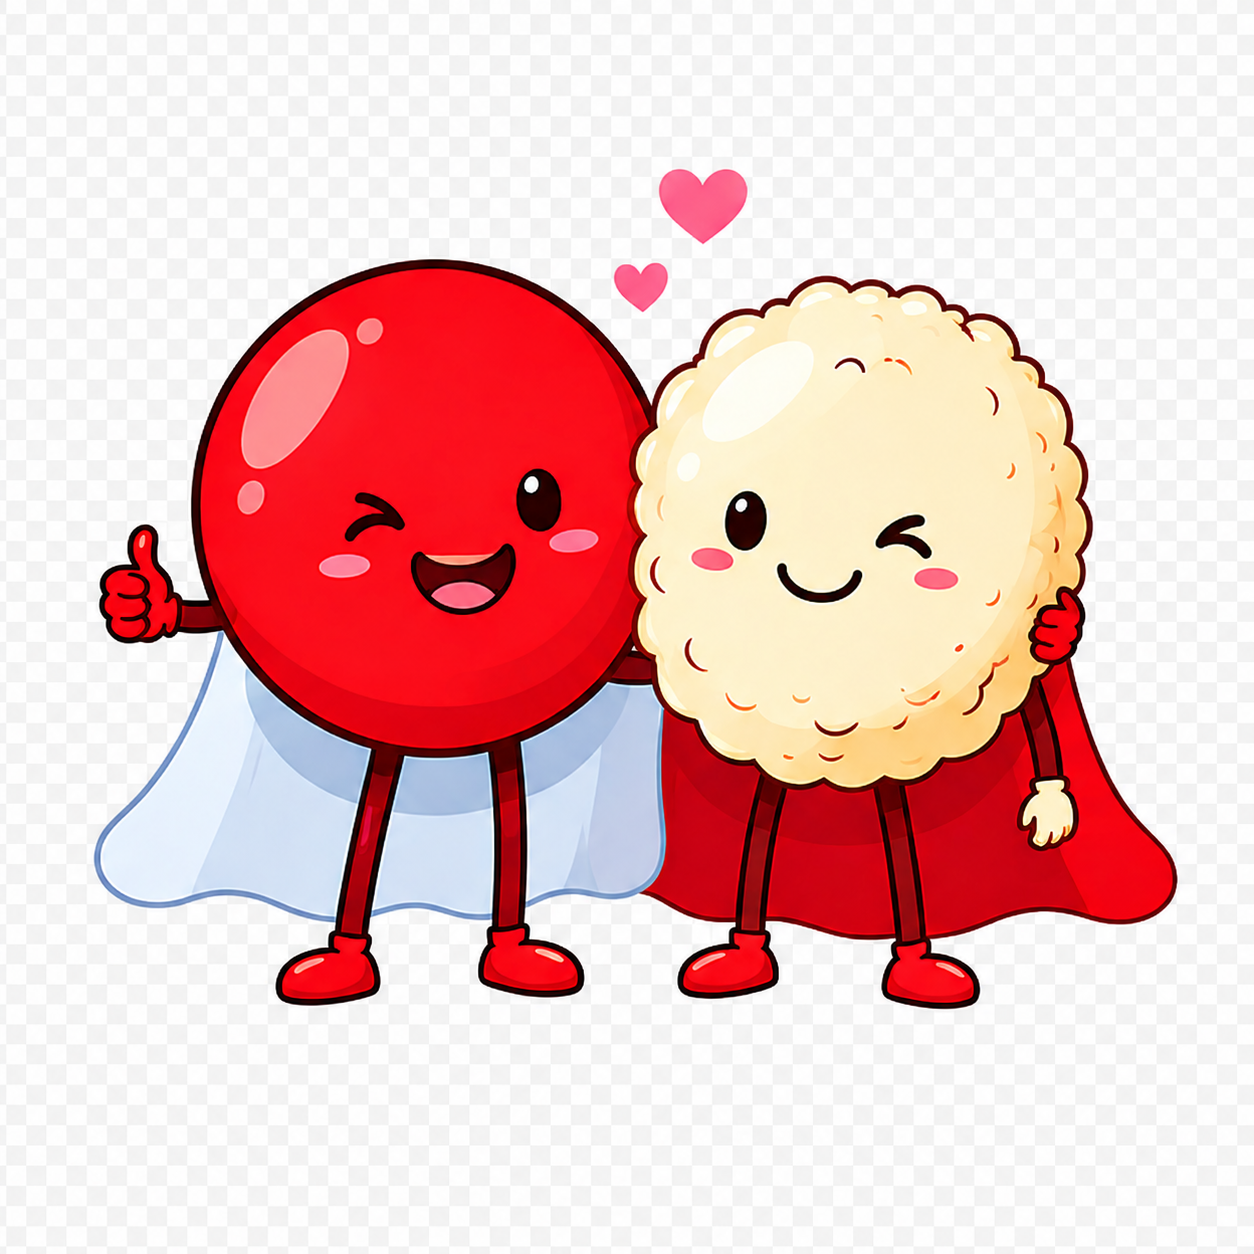
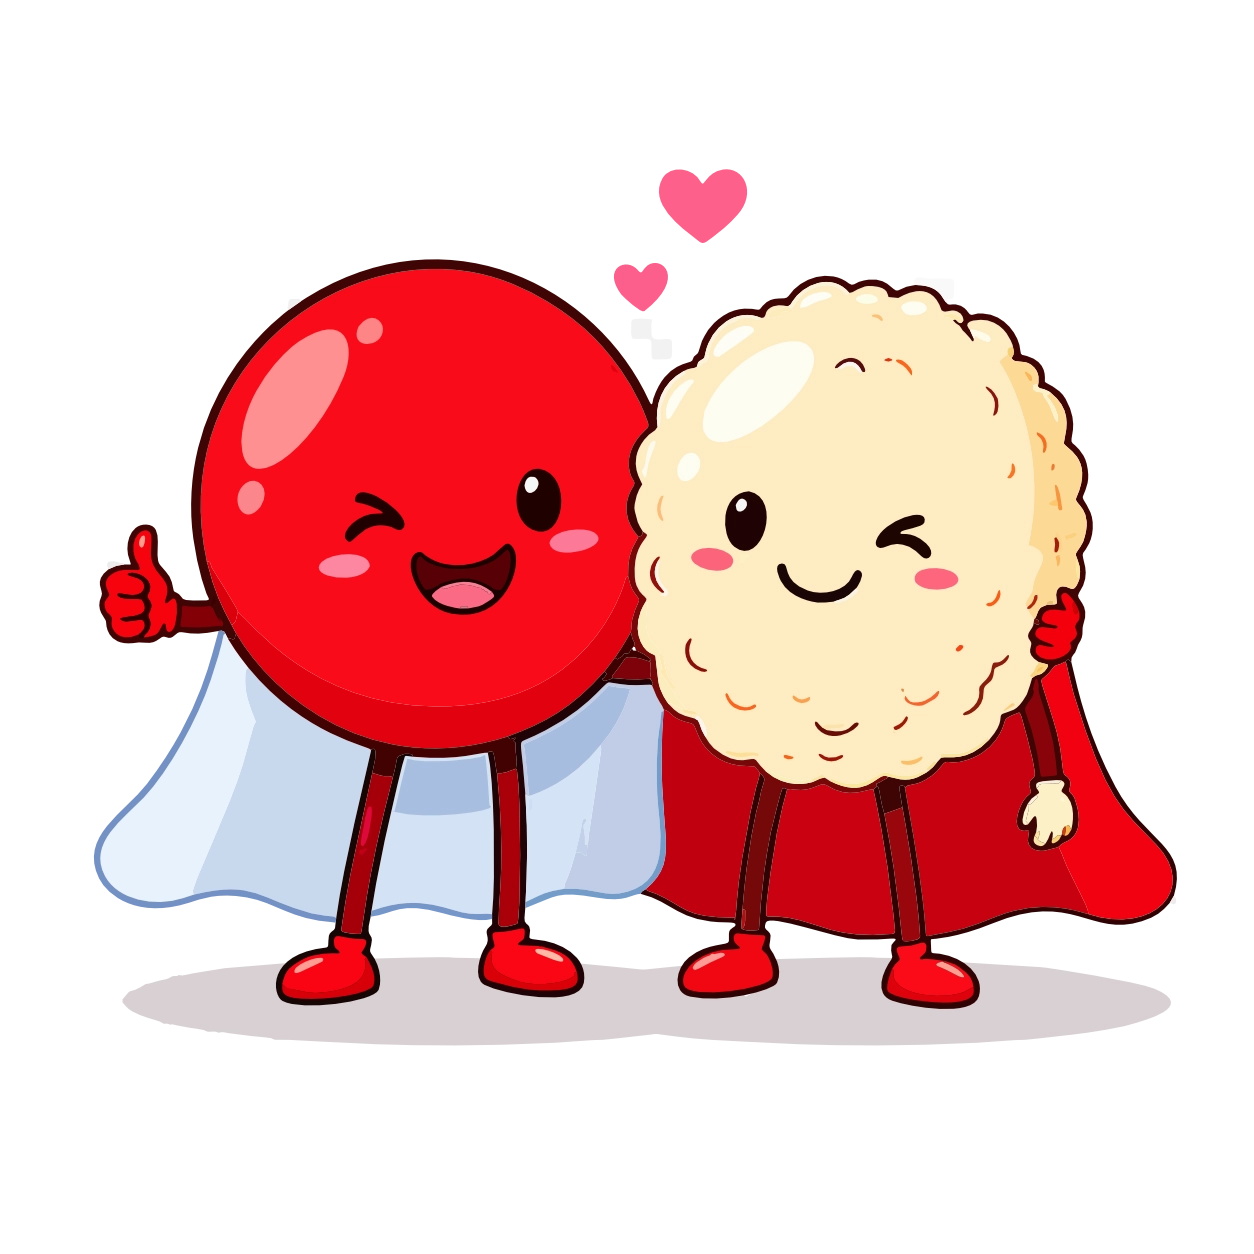
update contrôle Prix du Coeur

diff --git a/resources/js/components/public/PrizeForm.vue b/resources/js/components/public/PrizeForm.vue
@@ -132,50 +132,51 @@ async function handleSubmit() {
 
             <!-- Étape 2 -->
             <div v-if="step === 2">
-                <div class="mt-10 space-y-6 rounded-2xl bg-martinique-100 p-8">
-                    <div>
-                        <label class="mb-1.5 block text-body text-martinique-800">Nom de l'entreprise *</label>
-                        <input
-                            v-model="form.name"
-                            type="text"
-                            required
-                            maxlength="255"
-                            placeholder="Entreprise SA"
-                            class="w-full rounded-xl border-2 border-martinique-300 bg-white px-4 py-3 text-body text-martinique-950 placeholder-martinique-400 outline-none transition focus:border-martinique-500 focus:ring-2 focus:ring-martinique-200"
-                        />
+                <form @submit.prevent="handleSubmit">
+                    <div class="mt-10 space-y-6 rounded-2xl bg-martinique-100 p-8">
+                        <div>
+                            <label class="mb-1.5 block text-body text-martinique-800">Nom de l'entreprise *</label>
+                            <input
+                                v-model="form.name"
+                                type="text"
+                                required
+                                maxlength="255"
+                                placeholder="Entreprise SA"
+                                class="w-full rounded-xl border-2 border-martinique-300 bg-white px-4 py-3 text-body text-martinique-950 placeholder-martinique-400 outline-none transition focus:border-martinique-500 focus:ring-2 focus:ring-martinique-200"
+                            />
+                        </div>
+
+                        <div>
+                            <label class="mb-1.5 block text-body text-martinique-800">Adresse e-mail *</label>
+                            <input
+                                v-model="form.email"
+                                type="email"
+                                required
+                                maxlength="255"
+                                placeholder="contact@entreprise.ch"
+                                class="w-full rounded-xl border-2 border-martinique-300 bg-white px-4 py-3 text-body text-martinique-950 placeholder-martinique-400 outline-none transition focus:border-martinique-500 focus:ring-2 focus:ring-martinique-200"
+                            />
+                        </div>
                     </div>
 
-                    <div>
-                        <label class="mb-1.5 block text-body text-martinique-800">Adresse e-mail *</label>
-                        <input
-                            v-model="form.email"
-                            type="email"
-                            required
-                            maxlength="255"
-                            placeholder="contact@entreprise.ch"
-                            class="w-full rounded-xl border-2 border-martinique-300 bg-white px-4 py-3 text-body text-martinique-950 placeholder-martinique-400 outline-none transition focus:border-martinique-500 focus:ring-2 focus:ring-martinique-200"
-                        />
+                    <div class="mt-4 flex justify-between">
+                        <button
+                            type="button"
+                            class="rounded-full border border-martinique-300 px-3 py-2 text-body text-martinique-800 transition hover:bg-martinique-100 lg:px-6 lg:py-3"
+                            @click="goBack"
+                        >
+                            ← Retour
+                        </button>
+                        <button
+                            type="submit"
+                            :disabled="loading"
+                            class="rounded-full bg-razzmatazz-800 px-3 py-2 text-body text-white transition hover:bg-razzmatazz-600 disabled:opacity-40 lg:px-6 lg:py-3"
+                        >
+                            <span v-if="loading">Envoi en cours…</span>
+                            <span v-else>Envoyer la candidature</span>
+                        </button>
                     </div>
-                </div>
-
-                <div class="mt-4 flex justify-between">
-                    <button
-                        type="button"
-                        class="rounded-full border border-martinique-300 px-3 py-2 text-body text-martinique-800 transition hover:bg-martinique-100 lg:px-6 lg:py-3"
-                        @click="goBack"
-                    >
-                        ← Retour
-                    </button>
-                    <button
-                        type="button"
-                        :disabled="!form.name || !form.email || loading"
-                        class="rounded-full bg-razzmatazz-800 px-3 py-2 text-body text-white transition hover:bg-razzmatazz-600 disabled:opacity-40  lg:px-6 lg:py-3"
-                        @click="handleSubmit"
-                    >
-                        <span v-if="loading">Envoi en cours…</span>
-                        <span v-else>Envoyer la candidature</span>
-                    </button>
-                </div>
+                </form>
             </div>
         </template>
     </section>

diff --git a/resources/js/components/public/Companies.vue b/resources/js/components/public/Companies.vue
@@ -219,10 +219,10 @@ function resetFilters() {
                     </article>
                 </div>
 
-                <!-- Dégradé -->
                 <div
                     v-if="hasMore"
-                    class="pointer-events-none absolute bottom-0 left-0 right-0 h-10 bg-gradient-to-t from-martinique-600 to-transparent"
+                    class="pointer-events-none absolute bottom-0 left-0 right-0 h-12 backdrop-blur-md bg-martinique-600/30"
+                    style="backdrop-filter: blur(8px); -webkit-mask-image: linear-gradient(to top, white 20%, transparent 100%); mask-image: linear-gradient(to top, white 20%, transparent 100%);"
                 />
             </div>
 

diff --git a/resources/views/public/label.blade.php b/resources/views/public/label.blade.php
@@ -24,10 +24,10 @@
 
             <img src="/img/label.svg" alt="" class="mt-10 mx-auto h-32 w-auto lg:hidden" />
 
-            <div class="relative mt-14 min-h-[320px]">
-                <div class="pointer-events-none absolute bottom-0 left-1/2 hidden -translate-x-1/2 items-end gap-4 lg:flex">
-                    <img src="/img/mascots/blutly_hero.webp" alt="" class="h-56 w-auto object-contain" />
-                    <img src="/img/mascots/sanguy_thumbs_up.webp" alt="" class="h-56 w-auto object-contain" />
+            <div class="relative mt-14 min-h-[280px]">
+                <div class="pointer-events-none absolute bottom-0 left-0 right-0 hidden justify-center items-end gap-195 lg:flex">
+                    <img src="/img/mascots/blutly_hero.webp" alt="" class="h-48 w-auto object-contain" />
+                    <img src="/img/mascots/sanguy_thumbs_up.webp" alt="" class="h-48 w-auto object-contain" />
                 </div>
 
                 <div class="mx-auto grid max-w-5xl gap-8 lg:grid-cols-2">
